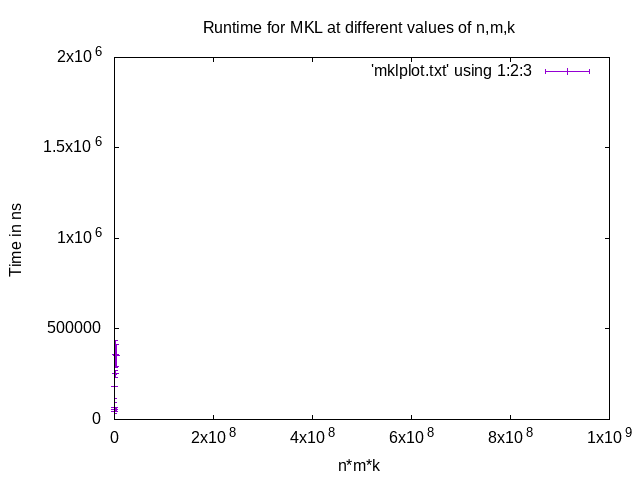
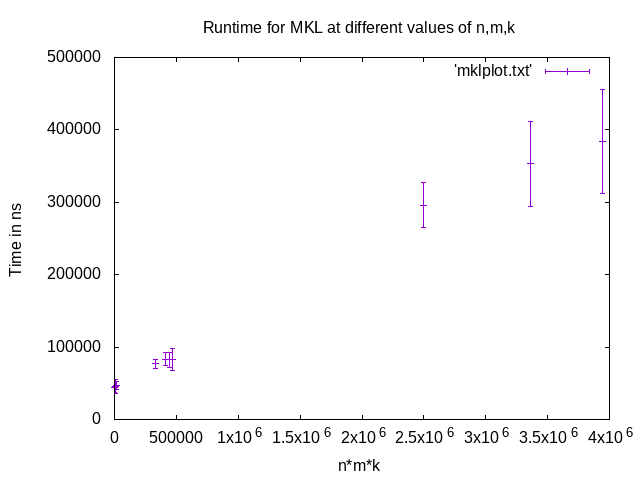
Plotting also done

diff --git a/Task1/Task1.2/matrix_openblas.cpp b/Task1/Task1.2/matrix_openblas.cpp
@@ -34,12 +34,12 @@ int main(int argc,char** argv){
         biasin>>c>>a;
         float* bias=new float[c*a];
         for(int i=0;i<c*a;i++) biasin>>bias[i];
-        // std::ofstream times;
-        // times.open("openblas_times.txt",std::ios_base::app);
-        // auto start=std::chrono::high_resolution_clock::now();
+        std::ofstream times;
+        times.open("openblas_times.txt",std::ios_base::app);
+        auto start=std::chrono::high_resolution_clock::now();
         cblas_sgemm(CblasColMajor,CblasNoTrans,CblasNoTrans,a,c,b,1.0,inp,a,weight,b,1.0,bias,a);
-        // auto end=std::chrono::high_resolution_clock::now();
-        // times<<std::chrono::duration_cast<std::chrono::nanoseconds>(end - start).count()<<std::endl;
+        auto end=std::chrono::high_resolution_clock::now();
+        times<<std::chrono::duration_cast<std::chrono::nanoseconds>(end - start).count()<<std::endl;
         resout<<c<<"\n";
         resout<<a<<"\n";
         for(int i=0;i<c*a;i++) resout<<bias[i]<<"\n";

diff --git a/Task1/Task1.2/matrix_mkl.cpp b/Task1/Task1.2/matrix_mkl.cpp
@@ -34,12 +34,12 @@ int main(int argc,char** argv){
         biasin>>c>>a;
         float* bias=new float[c*a];
         for(int i=0;i<c*a;i++) biasin>>bias[i];
-        // std::ofstream times;
-        // times.open("mkl_times.txt",std::ios_base::app);
-        // auto start=std::chrono::high_resolution_clock::now();
+        std::ofstream times;
+        times.open("mkl_times.txt",std::ios_base::app);
+        auto start=std::chrono::high_resolution_clock::now();
         cblas_sgemm(CblasColMajor,CblasNoTrans,CblasNoTrans,a,c,b,1.0,inp,a,weight,b,1.0,bias,a);
-        // auto end=std::chrono::high_resolution_clock::now();
-        // times<<std::chrono::duration_cast<std::chrono::nanoseconds>(end - start).count()<<std::endl;
+        auto end=std::chrono::high_resolution_clock::now();
+        times<<std::chrono::duration_cast<std::chrono::nanoseconds>(end - start).count()<<std::endl;
         resout<<c<<"\n";
         resout<<a<<"\n";
         for(int i=0;i<c*a;i++) resout<<bias[i]<<"\n";

diff --git a/Task1/Task1.2/matrix_pthread.cpp b/Task1/Task1.2/matrix_pthread.cpp
@@ -93,12 +93,12 @@ int main(int argc,char** argv){
         biasin>>c>>a;
         float* bias=new float[c*a];
         for(int i=0;i<c*a;i++) biasin>>bias[i];
-        // std::ofstream times;
-        // times.open("pthread_times.txt",std::ios_base::app);
-        // auto start=std::chrono::high_resolution_clock::now();
+        std::ofstream times;
+        times.open("pthread_times.txt",std::ios_base::app);
+        auto start=std::chrono::high_resolution_clock::now();
         fullyConnectedPthread(inp,weight,bias,a,b,c);
-        // auto end=std::chrono::high_resolution_clock::now();
-        // times<<std::chrono::duration_cast<std::chrono::nanoseconds>(end - start).count()<<std::endl;
+        auto end=std::chrono::high_resolution_clock::now();
+        times<<std::chrono::duration_cast<std::chrono::nanoseconds>(end - start).count()<<std::endl;
         resout<<c<<"\n";
         resout<<a<<"\n";
         for(int i=0;i<c*a;i++) resout<<bias[i]<<"\n";

diff --git a/Task1/Task1.2/README.md b/Task1/Task1.2/README.md
@@ -1,9 +1,8 @@
 # COP290 Task 1.2: Using predifined libraries and p-threads to improve fullyconnected layer
+
 ## Authors :- Nischay Diwan and Srijan Gupta
 
-## Files:- 
-
-matrix_gen.cpp: this generates input, weight and bias matrix files of random size of given dimensions.
+## Files:-
 
 matrix_mkl.cpp: this contains source code for generation of output files performing matrix calculations using intel mkl math library.
 
@@ -13,11 +12,9 @@ matrix_pthread.cpp: this contains source code for generation of output files per
 
 makefile: this contains compile codes for specific targets.
 
-combinedplot.gnu: this is gnuplot script to plot mean and SD of 100 iterations of a sample case, under each method, y axis is runtime in ns and x axis is 1-mkl, 2-openblas, 3-pthread.
+combinedplot.gnu: this is gnuplot script to plot the runtimes of 100 iterations of a sample case, under each method, y axis is runtime in ns and x axis is 1-mkl, 2-openblas, 3-pthread.
 
-combinedplot.png: box plot image if script, combinedplot.txt: list of times to plot.
-
-
+individualplots.gnu: this is gnuplot script to plot the mean and standard deviations of runtimes of 10 sample matrix size combinations.
 
 ## Features
 
@@ -25,7 +22,6 @@ combinedplot.png: box plot image if script, combinedplot.txt: list of times to p
 
 - **Implementation** in which a argument is passed while execution to choose which way to implement. (mkl, openblas, pthread( uses 4 threads))
 
-Prevoius Features: 
 <!-- - **Activation** Activating a matrix using either *relu* or *tanh* functions. (reluActivate,tanhActivate)
 
 - **Subsampling** Reducing the size of a square matrix by a certain factor by either *max* or *average* pooling. (maxPool,avgPool)
@@ -33,8 +29,6 @@ Prevoius Features:
 - **Probability Conversion** Converting a vector of values into a vector of probabilities using either the *softmax* or the *sigmoid* function. (softmaxProb,sigmoidProb)
 
 - **Exceptions handled-** Invalid function names, invalid types, invalid number of arguments and input file does not exist -->
-
-## Execution
 
 ### Compilation
 
@@ -106,6 +100,17 @@ The command should be of the format:
 Where *type* is *softmax/sigmoid*, `inputvector.txt` contains the input vector and `outputvector.txt` contains the output vector. -->
 
 #### Gnuplot
+
+```bash
+    gnuplot
+    load "combinedplot.gnu"
+    load "individualplots.gnu"
+```
+
+## Observations
+
+- MKL Library was both the most efficient and showed the least amount of deviation.
+- Our self made pthread implementation could not match running speeds of the pre-made libraries MKL and Openblas.
 
 ## Note
 
